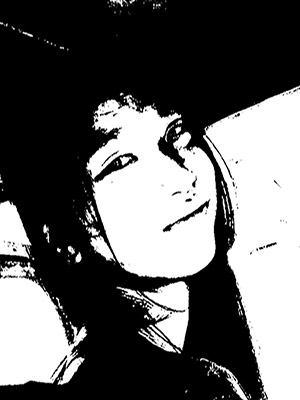
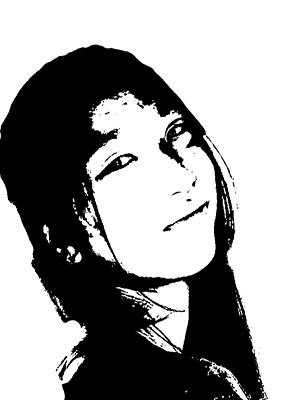
changes

diff --git a/style/style.css b/style/style.css
@@ -91,15 +91,12 @@ body {
     margin-left: 515px;
     height: 520px;
     width: 737px;
-    border-width: 5px;
-    border-style: dashed;
-    border-color: black;
     float: left;
 }
 
 .image {
-    margin-top: -12px;
-    margin-left: -517px;
+    margin-top: 76px;
+    margin-left: -392px;
     height: 400px;
     float: left;
     width: 300px;
@@ -108,10 +105,17 @@ body {
 
 .me {
     margin-top: 10px;
-    margin-left: 100px;
+    margin-left: 107px;
     font-size: 80px;
     font-family: Plantagenet Cherokee Regular;
     font-weight: bold;
+}
+
+hr {
+    margin-left: 177px;
+    margin-top: -82px;
+    border-style: solid;
+    width: 200px;
 }
 
 #education {

diff --git a/index.html b/index.html
@@ -43,6 +43,7 @@
             </div>
 
             <p class="me">About Me</p>
+            <hr>
 
         </div>
 
